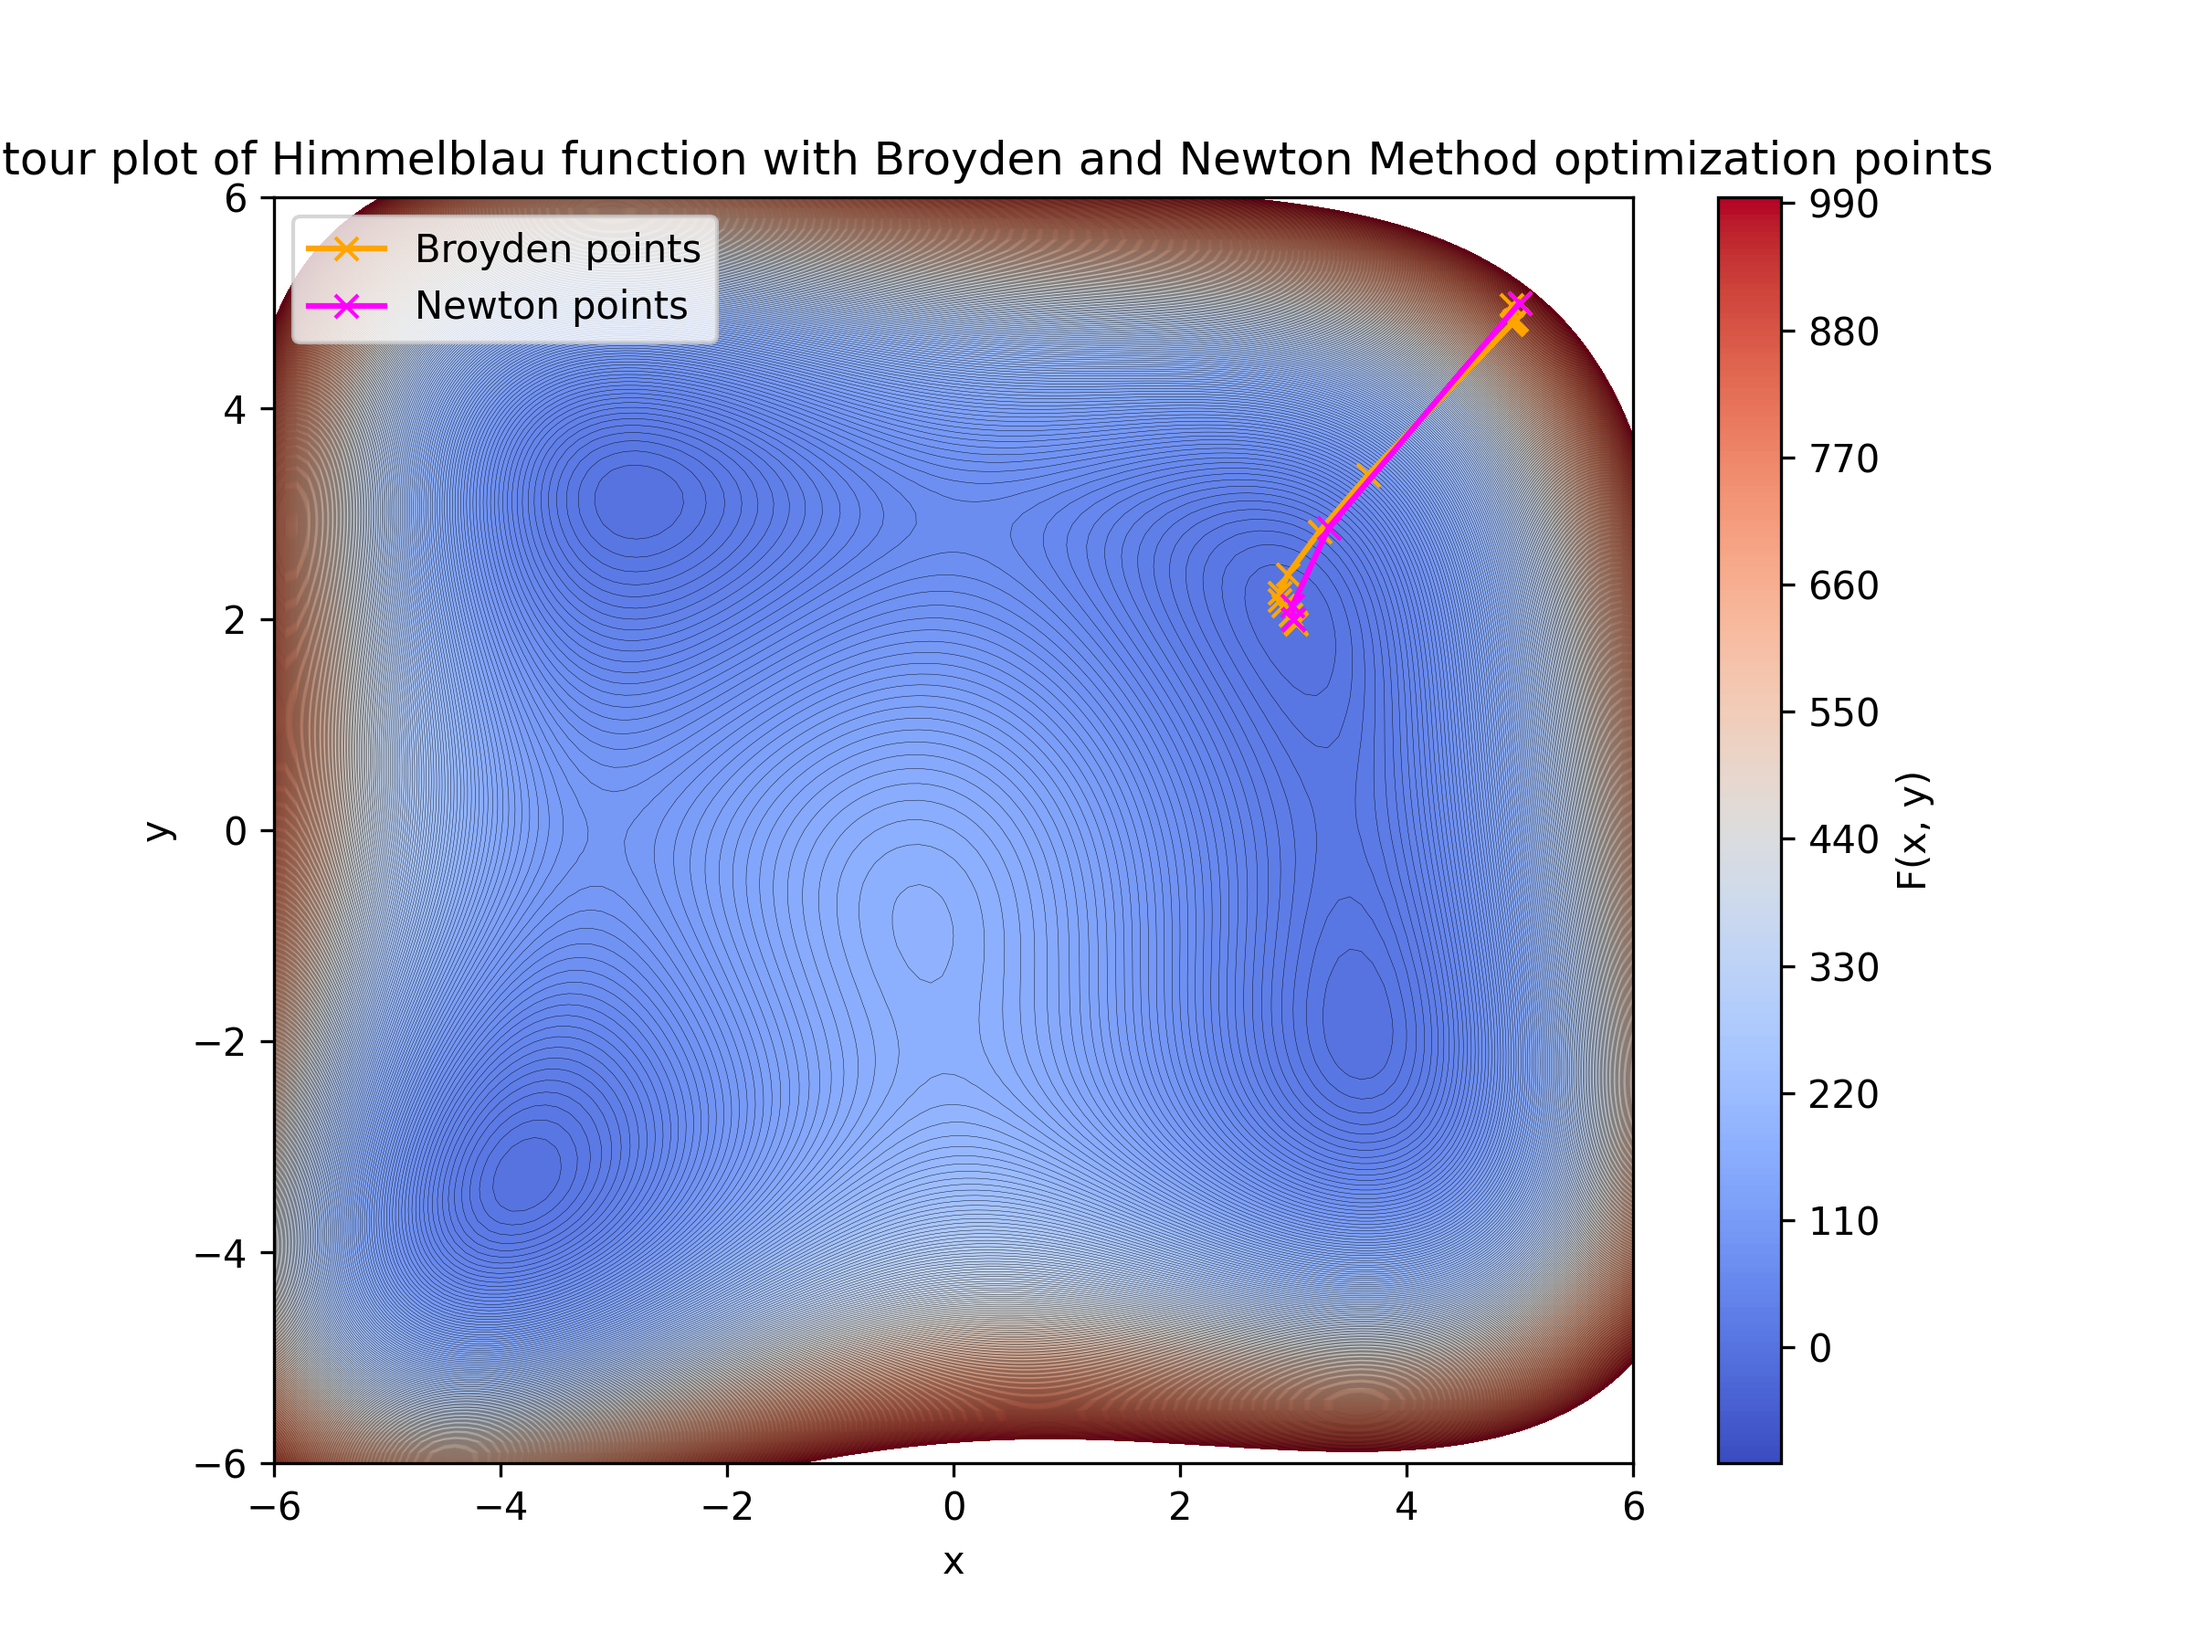
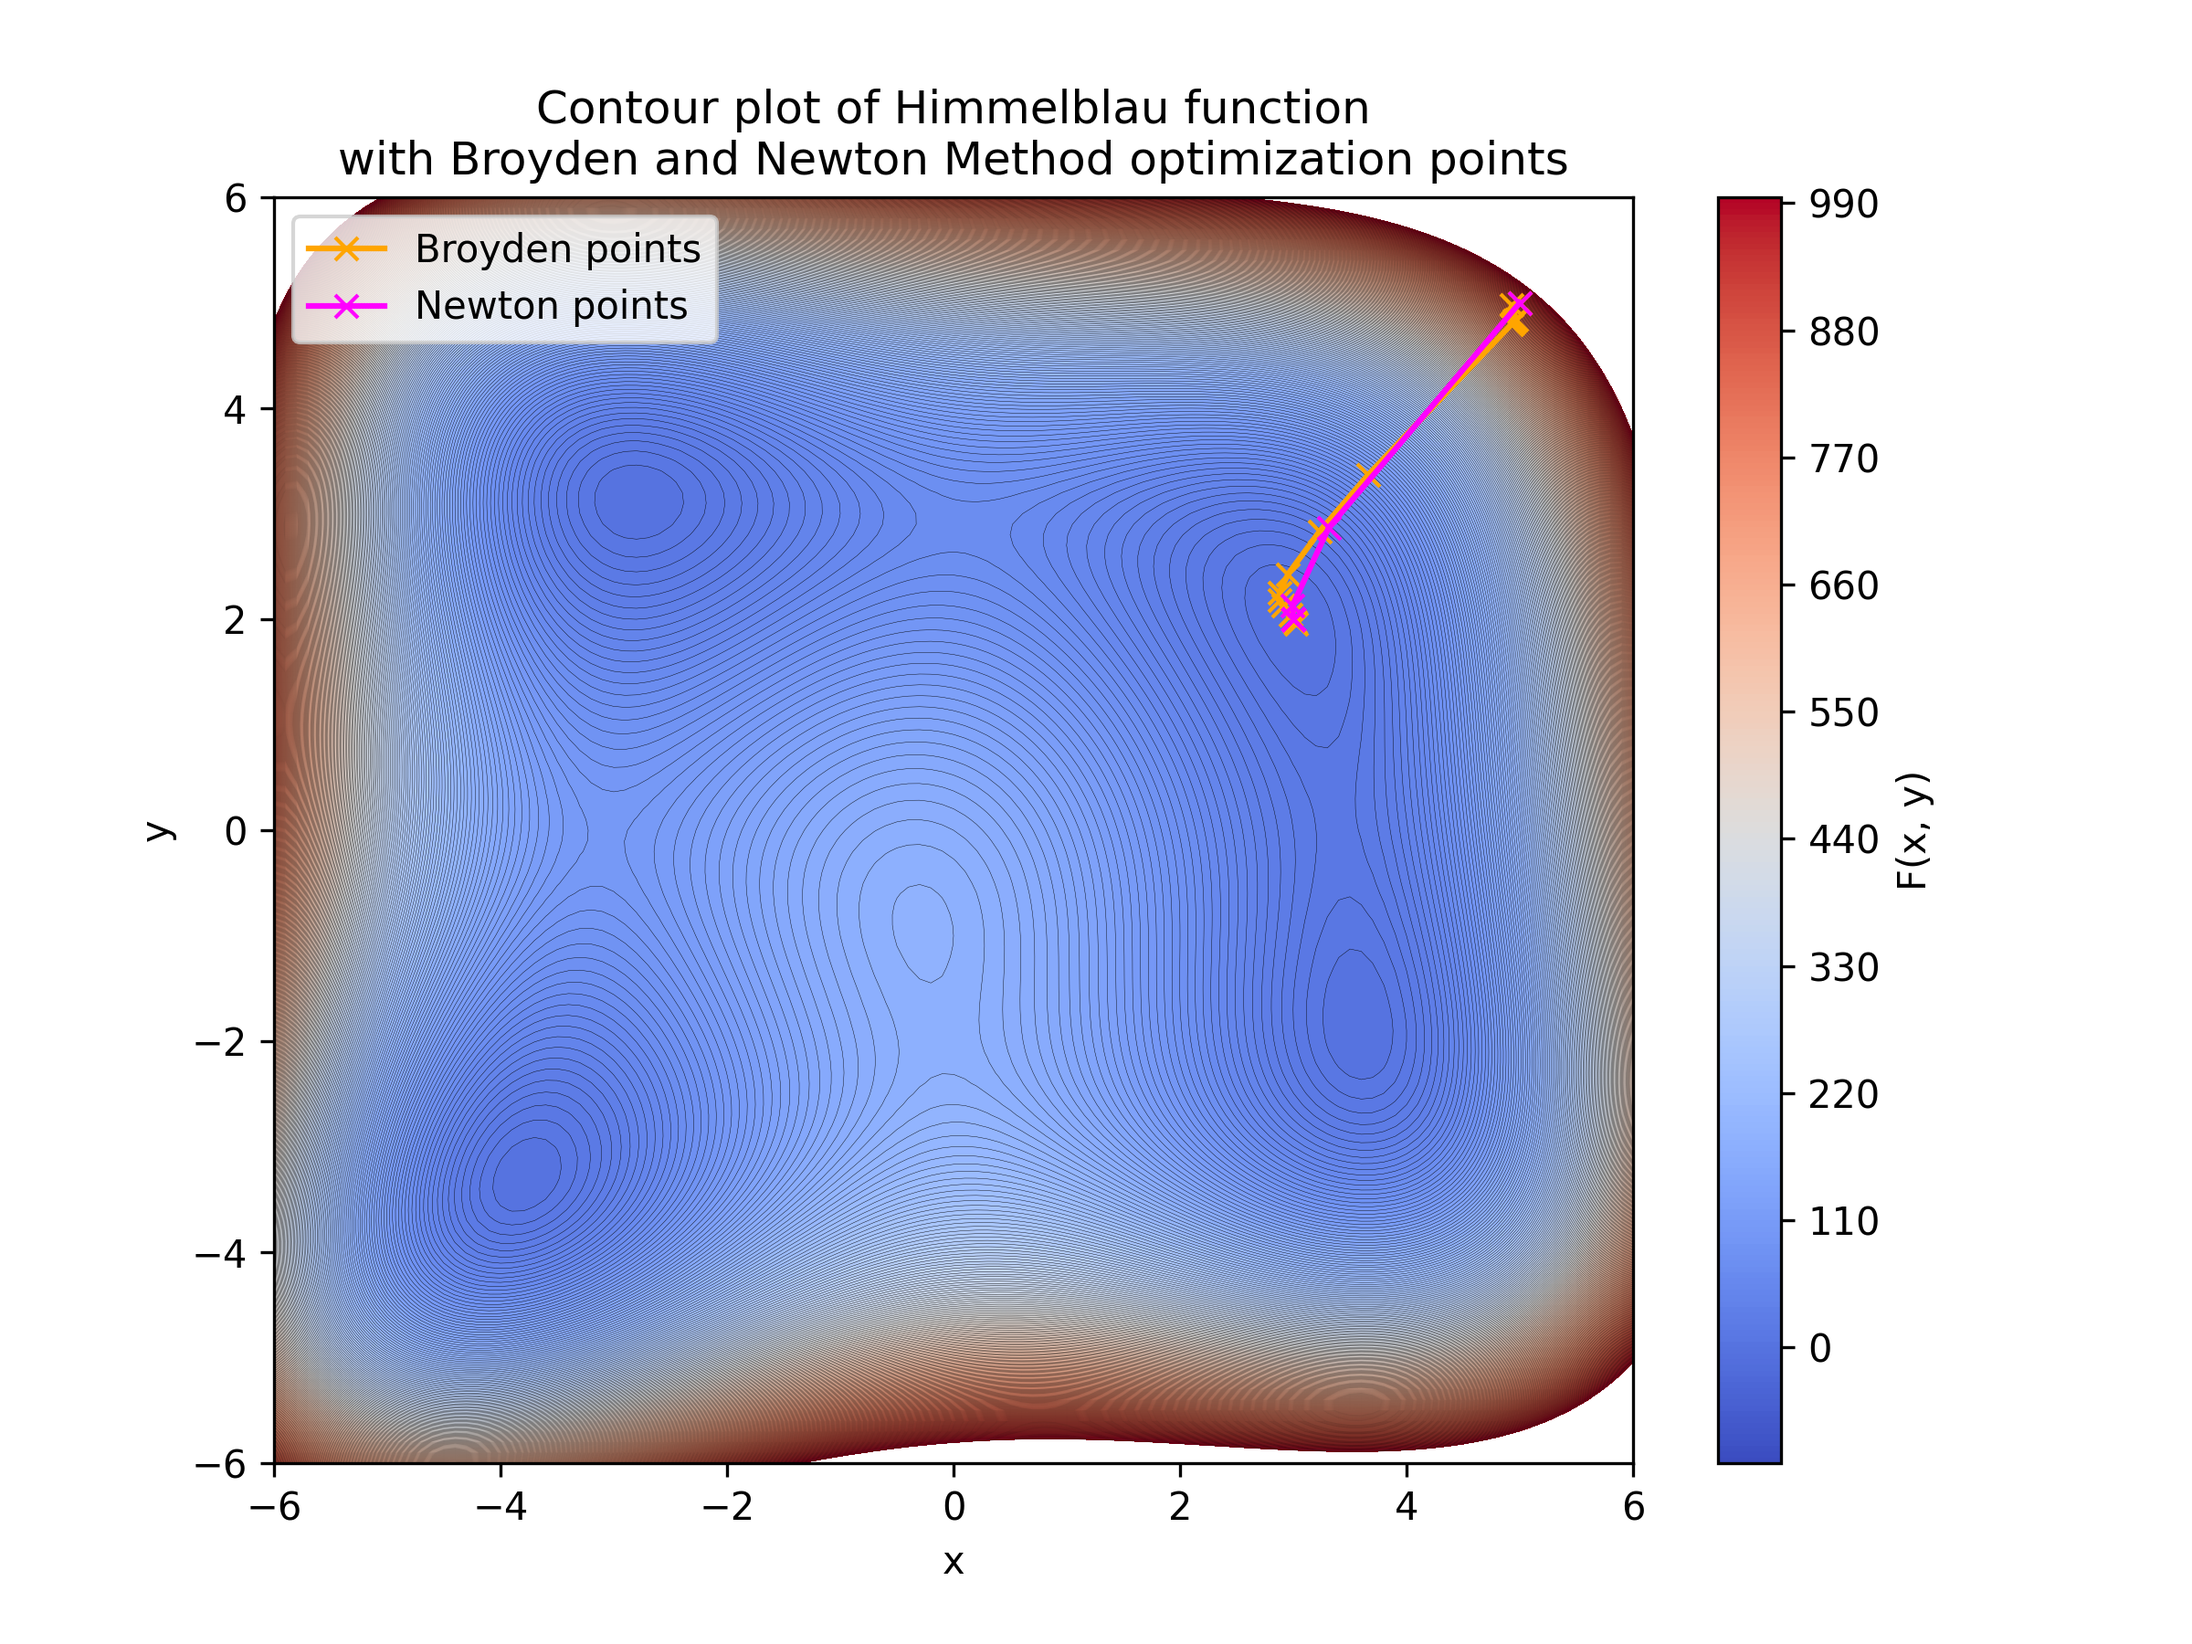
updating quasi newton

Changed region(s): [[0.0, 0.0622, 0.9062, 0.1244]]

diff --git a/builds/build_root_finding/plot.py b/builds/build_root_finding/plot.py
@@ -7,10 +7,10 @@ himmelblau_broyden_data = np.loadtxt('Himmelblau_Broyden.dat')
 himmelblau_newton_data = np.loadtxt('Himmelblau_Newton.dat')  # load new data
 
 # Create a 2D grid for the contour plot
-x = np.unique(himmelblau_data[:,0])
-y = np.unique(himmelblau_data[:,1])
+x = np.unique(himmelblau_data[:, 0])
+y = np.unique(himmelblau_data[:, 1])
 X, Y = np.meshgrid(x, y)
-Z = himmelblau_data[:,2].reshape(len(x), len(y))
+Z = himmelblau_data[:, 2].reshape(len(x), len(y))
 
 # Contour plot
 plt.figure(figsize=(8, 6))
@@ -20,14 +20,19 @@ levels = []
 for i in range(-100, 1000, 5):
     levels.append(i)
 
-contourf = plt.contourf(Y, X, Z, levels=levels, cmap='coolwarm')  # change colormap here
-contour = plt.contour(Y, X, Z, levels=levels, colors='black', linewidths=0.1)  # make lines thinner
+contourf = plt.contourf(Y, X, Z, levels=levels,
+                        cmap='coolwarm')  # change colormap here
+contour = plt.contour(Y, X, Z, levels=levels, colors='black',
+                      linewidths=0.1)  # make lines thinner
 
 # Scatter plot
-plt.plot(himmelblau_broyden_data[:,0], himmelblau_broyden_data[:,1], 'x-', color='orange', label='Broyden points')  # plot Broyden data with orange color and circular marker
-plt.plot(himmelblau_newton_data[:,0], himmelblau_newton_data[:,1], 'x-', color='magenta', label='Newton points')  # plot Newton data with magenta color and circular marker
+plt.plot(himmelblau_broyden_data[:, 0], himmelblau_broyden_data[:, 1], 'x-', color='orange',
+         label='Broyden points')  # plot Broyden data with orange color and circular marker
+# plot Newton data with magenta color and circular marker
+plt.plot(himmelblau_newton_data[:, 0], himmelblau_newton_data[:,
+         1], 'x-', color='magenta', label='Newton points')
 
-plt.title('Contour plot of Himmelblau function with Broyden and Newton Method optimization points')
+plt.title('Contour plot of Himmelblau function\nwith Broyden and Newton Method optimization points')
 plt.xlim(-6, 6)
 plt.ylim(-6, 6)
 plt.xlabel('x')

diff --git a/builds/build_bem/BEM_solveBVP.hpp b/builds/build_bem/BEM_solveBVP.hpp
@@ -61,8 +61,8 @@ $`G=1/\|{\bf x}-{\bf a}\|`$がラプラス法廷式の基本解であり，$`\ph
 // #define solveBVP_debug
 
 // #define use_CG
-// #define use_gmres 20
-#define use_lapack
+#define use_gmres 50
+// #define use_lapack
 
 // #define quad_element
 // #define linear_element
@@ -616,8 +616,8 @@ struct BEM_BVP {
    &\rightarrow& 0& =\frac{d}{dt}\left({\bf n}\cdot \left(\frac{d\boldsymbol r}{dt}-\nabla \phi\right)\right) \\
    &\rightarrow& 0& =\frac{d{\bf n}}{dt}\cdot \left(\frac{d\boldsymbol r}{dt}-\nabla \phi\right)+ {\bf n}\cdot \frac{d}{dt}\left(\frac{d\boldsymbol r}{dt}-\nabla \phi\right)\\
    &\rightarrow& 0& =\frac{d{\bf n}}{dt}\cdot \left(\frac{d\boldsymbol r}{dt}-\nabla \phi\right)+ {\bf n}\cdot \left(\frac{d^2\boldsymbol r}{dt^2}-\frac{d}{dt}\nabla \phi\right)\\
-   &\rightarrow& 0& =\frac{d{\bf n}}{dt}\cdot \left(\frac{d\boldsymbol r}{dt}-\nabla \phi\right)+ {\bf n}\cdot \left(\frac{d^2\boldsymbol r}{dt^2}- {\nabla \phi_t - \nabla \phi \cdot \nabla\nabla \phi}\right)\\
-   &\rightarrow& \phi_{nt}& =\frac{d{\bf n}}{dt}\cdot \left(\frac{d\boldsymbol r}{dt}-\nabla \phi\right)+ {\bf n}\cdot \left(\frac{d^2\boldsymbol r}{dt^2} - \nabla \phi \cdot \nabla\nabla \phi\right)
+   &\rightarrow& 0& =\frac{d{\bf n}}{dt}\cdot \left(\frac{d\boldsymbol r}{dt}-\nabla \phi\right)+ {\bf n}\cdot \left(\frac{d^2\boldsymbol r}{dt^2}- {\nabla \phi_t - (\nabla \phi \cdot \nabla)\nabla \phi}\right)\\
+   &\rightarrow& \phi_{nt}& =\frac{d{\bf n}}{dt}\cdot \left(\frac{d\boldsymbol r}{dt}-\nabla \phi\right)+ {\bf n}\cdot \left(\frac{d^2\boldsymbol r}{dt^2} - \nabla \phi \cdot (\nabla\otimes\nabla \phi) \right)
    \end{aligned}
    ```
 
@@ -654,7 +654,7 @@ struct BEM_BVP {
    /*DOC_EXTRACT BEM
 
    ```math
-   \nabla {\bf u} = \nabla \nabla \phi =
+   \nabla\otimes{\bf u} = \nabla \otimes \nabla \phi =
    \begin{bmatrix} \phi_{xx} & \phi_{xy} & \phi_{xz} \\
    　　　　　　　　　　\phi_{yx} & \phi_{yy} & \phi_{yz} \\
    　　　　　　　　　　\phi_{zx} & \phi_{zy} & \phi_{zz}

diff --git a/builds/build_root_finding/example0_NewtonRaphson_0.cpp b/builds/build_root_finding/example0_NewtonRaphson_0.cpp
@@ -10,6 +10,12 @@
 目的関数の根を見つける場合は，ヤコビ行列を使う．
 最適化の問題の多くは，目的関数の最大最小を求めることなので，ヘッセ行列を利用したニュートン法を用いる．
 
+```
+$ cmake -DCMAKE_BUILD_TYPE=Release ../ -DSOURCE_FILE=example0_NewtonRaphson_0.cpp
+$ make
+$ ./example0_NewtonRaphson_0
+```
+
 */
 
 #include "minMaxOfFunctions.hpp"

diff --git a/builds/build_root_finding/example1_Broyden.cpp b/builds/build_root_finding/example1_Broyden.cpp
@@ -3,6 +3,15 @@
 ## 準ニュートン法
 
 ニュートン法で使うヤコビ行列などを別のものに置き換えた方法．
+
+```
+$ cmake -DCMAKE_BUILD_TYPE=Release ../ -DSOURCE_FILE=example1_Broyden.cpp
+$ make
+$ ./example1_Broyden
+```
+
+![broyden_newton.png](broyden_newton.png)
+
 */
 #include "minMaxOfFunctions.hpp"
 

diff --git a/builds/build_bem/input_generator.py b/builds/build_bem/input_generator.py
@@ -111,7 +111,7 @@ input_directory = "./input_files/"
 # ---------------------------------------------------------------------------- #
 
 
-SimulationCase = "moon_pool"
+SimulationCase = "Kramer2021"
 
 match SimulationCase:
     case "Hadzic2005":

diff --git a/builds/build_bem/README.md b/builds/build_bem/README.md
@@ -362,8 +362,8 @@ $`\frac{\partial \phi}{\partial t}`$を$`\phi _t`$と書くことにする．こ
 &\rightarrow& 0& =\frac{d}{dt}\left({\bf n}\cdot \left(\frac{d\boldsymbol r}{dt}-\nabla \phi\right)\right) \\
 &\rightarrow& 0& =\frac{d{\bf n}}{dt}\cdot \left(\frac{d\boldsymbol r}{dt}-\nabla \phi\right)+ {\bf n}\cdot \frac{d}{dt}\left(\frac{d\boldsymbol r}{dt}-\nabla \phi\right)\\
 &\rightarrow& 0& =\frac{d{\bf n}}{dt}\cdot \left(\frac{d\boldsymbol r}{dt}-\nabla \phi\right)+ {\bf n}\cdot \left(\frac{d^2\boldsymbol r}{dt^2}-\frac{d}{dt}\nabla \phi\right)\\
-&\rightarrow& 0& =\frac{d{\bf n}}{dt}\cdot \left(\frac{d\boldsymbol r}{dt}-\nabla \phi\right)+ {\bf n}\cdot \left(\frac{d^2\boldsymbol r}{dt^2}- {\nabla \phi _t - \nabla \phi \cdot \nabla\nabla \phi}\right)\\
-&\rightarrow& \phi _{nt}& =\frac{d{\bf n}}{dt}\cdot \left(\frac{d\boldsymbol r}{dt}-\nabla \phi\right)+ {\bf n}\cdot \left(\frac{d^2\boldsymbol r}{dt^2} - \nabla \phi \cdot \nabla\nabla \phi\right)
+&\rightarrow& 0& =\frac{d{\bf n}}{dt}\cdot \left(\frac{d\boldsymbol r}{dt}-\nabla \phi\right)+ {\bf n}\cdot \left(\frac{d^2\boldsymbol r}{dt^2}- {\nabla \phi _t - (\nabla \phi \cdot \nabla)\nabla \phi}\right)\\
+&\rightarrow& \phi _{nt}& =\frac{d{\bf n}}{dt}\cdot \left(\frac{d\boldsymbol r}{dt}-\nabla \phi\right)+ {\bf n}\cdot \left(\frac{d^2\boldsymbol r}{dt^2} - \nabla \phi \cdot (\nabla\otimes\nabla \phi) \right)
 \end{aligned}
 ```
 
@@ -400,7 +400,7 @@ $`\phi _{nt}`$は，[ここ](../../builds/build_bem/BEM_solveBVP.hpp#L689)で与
 
 
 ```math
-\nabla {\bf u} = \nabla \nabla \phi =
+\nabla\otimes{\bf u} = \nabla \otimes \nabla \phi =
 \begin{bmatrix} \phi _{xx} & \phi _{xy} & \phi _{xz} \\
 \phi _{yx} & \phi _{yy} & \phi _{yz} \\
 \phi _{zx} & \phi _{zy} & \phi _{zz}

diff --git a/builds/build_root_finding/README.md b/builds/build_root_finding/README.md
@@ -22,6 +22,12 @@
 目的関数の根を見つける場合は，ヤコビ行列を使う．
 最適化の問題の多くは，目的関数の最大最小を求めることなので，ヘッセ行列を利用したニュートン法を用いる．
 
+```
+$ cmake -DCMAKE _BUILD _TYPE=Release ../ -DSOURCE _FILE=example0 _NewtonRaphson _0.cpp
+$ make
+$ ./example0_NewtonRaphson_0
+```
+
 
 [./example0_NewtonRaphson_0.cpp#L1](./example0_NewtonRaphson_0.cpp#L1)
 
@@ -129,6 +135,14 @@ $$
 ## ⛵準ニュートン法 
 
 ニュートン法で使うヤコビ行列などを別のものに置き換えた方法．
+
+```
+$ cmake -DCMAKE _BUILD _TYPE=Release ../ -DSOURCE _FILE=example1 _Broyden.cpp
+$ make
+$ ./example1_Broyden
+```
+
+![broyden_newton.png](broyden_newton.png)
 
 
 [./example1_Broyden.cpp#L1](./example1_Broyden.cpp#L1)
